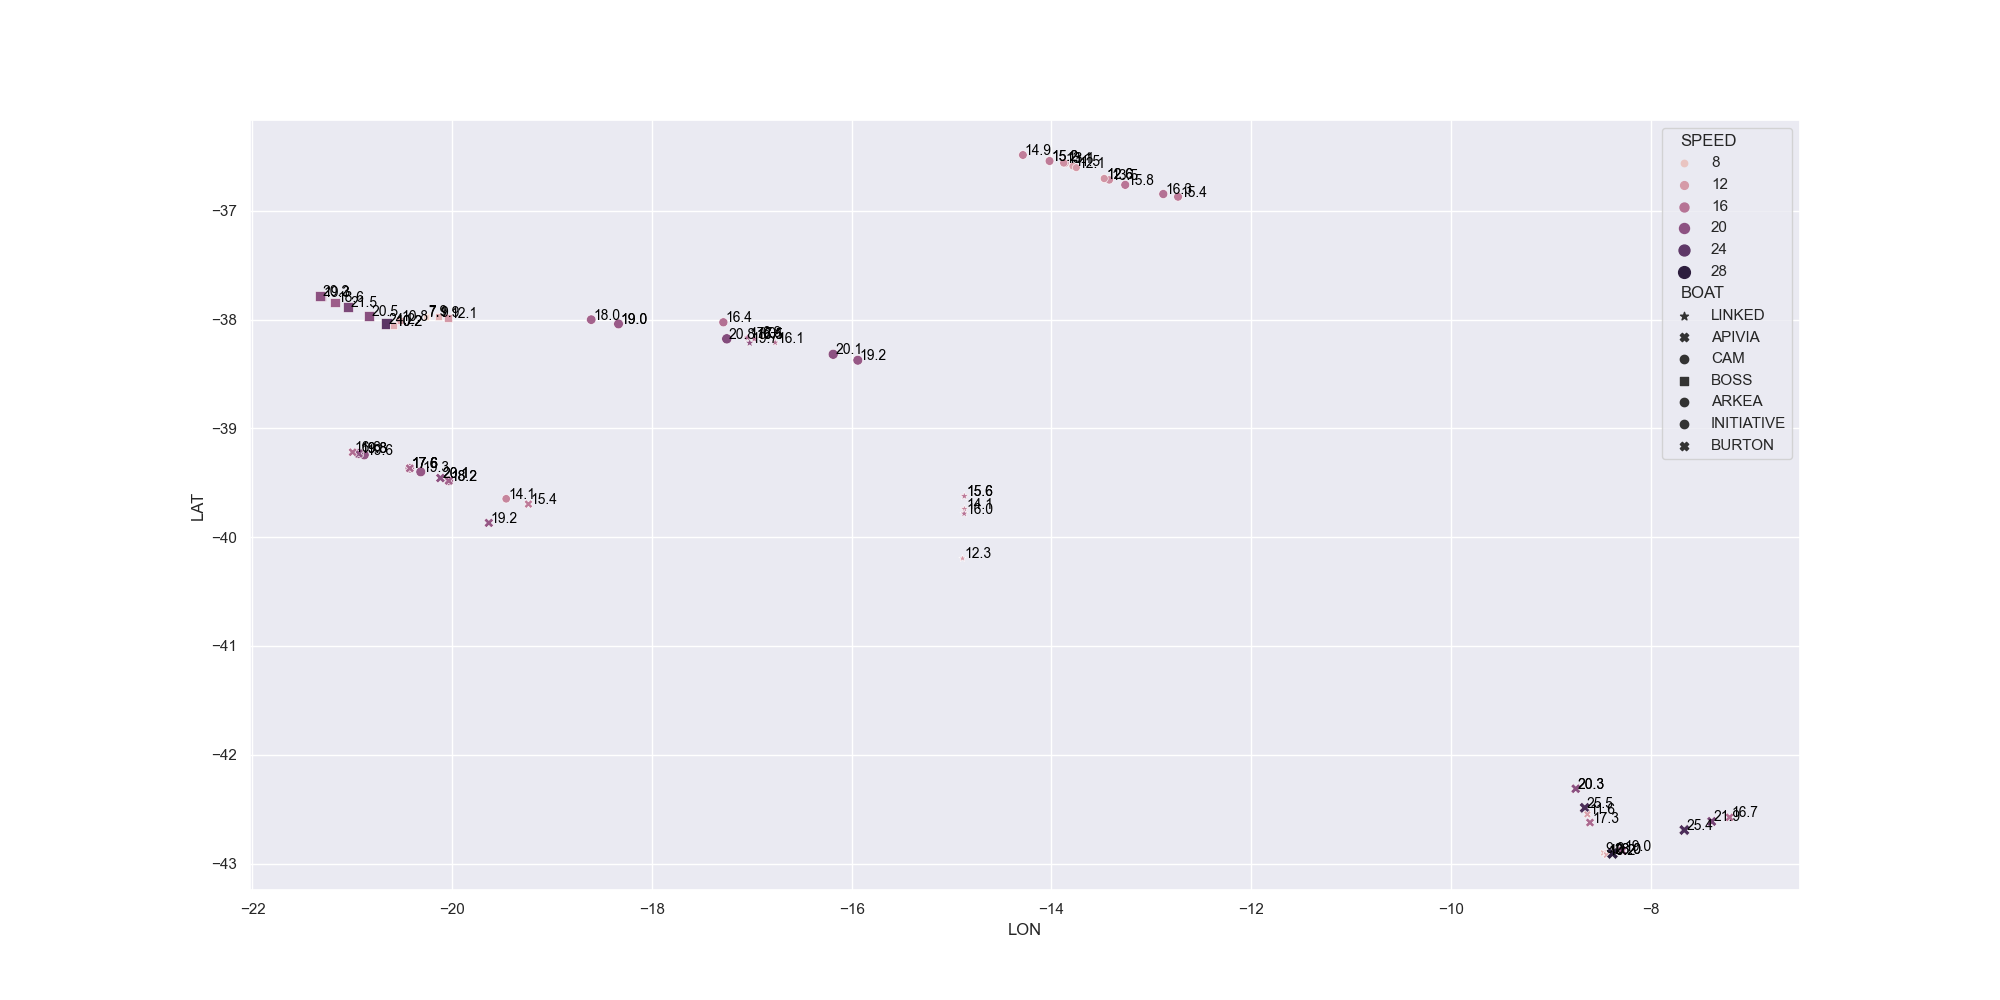
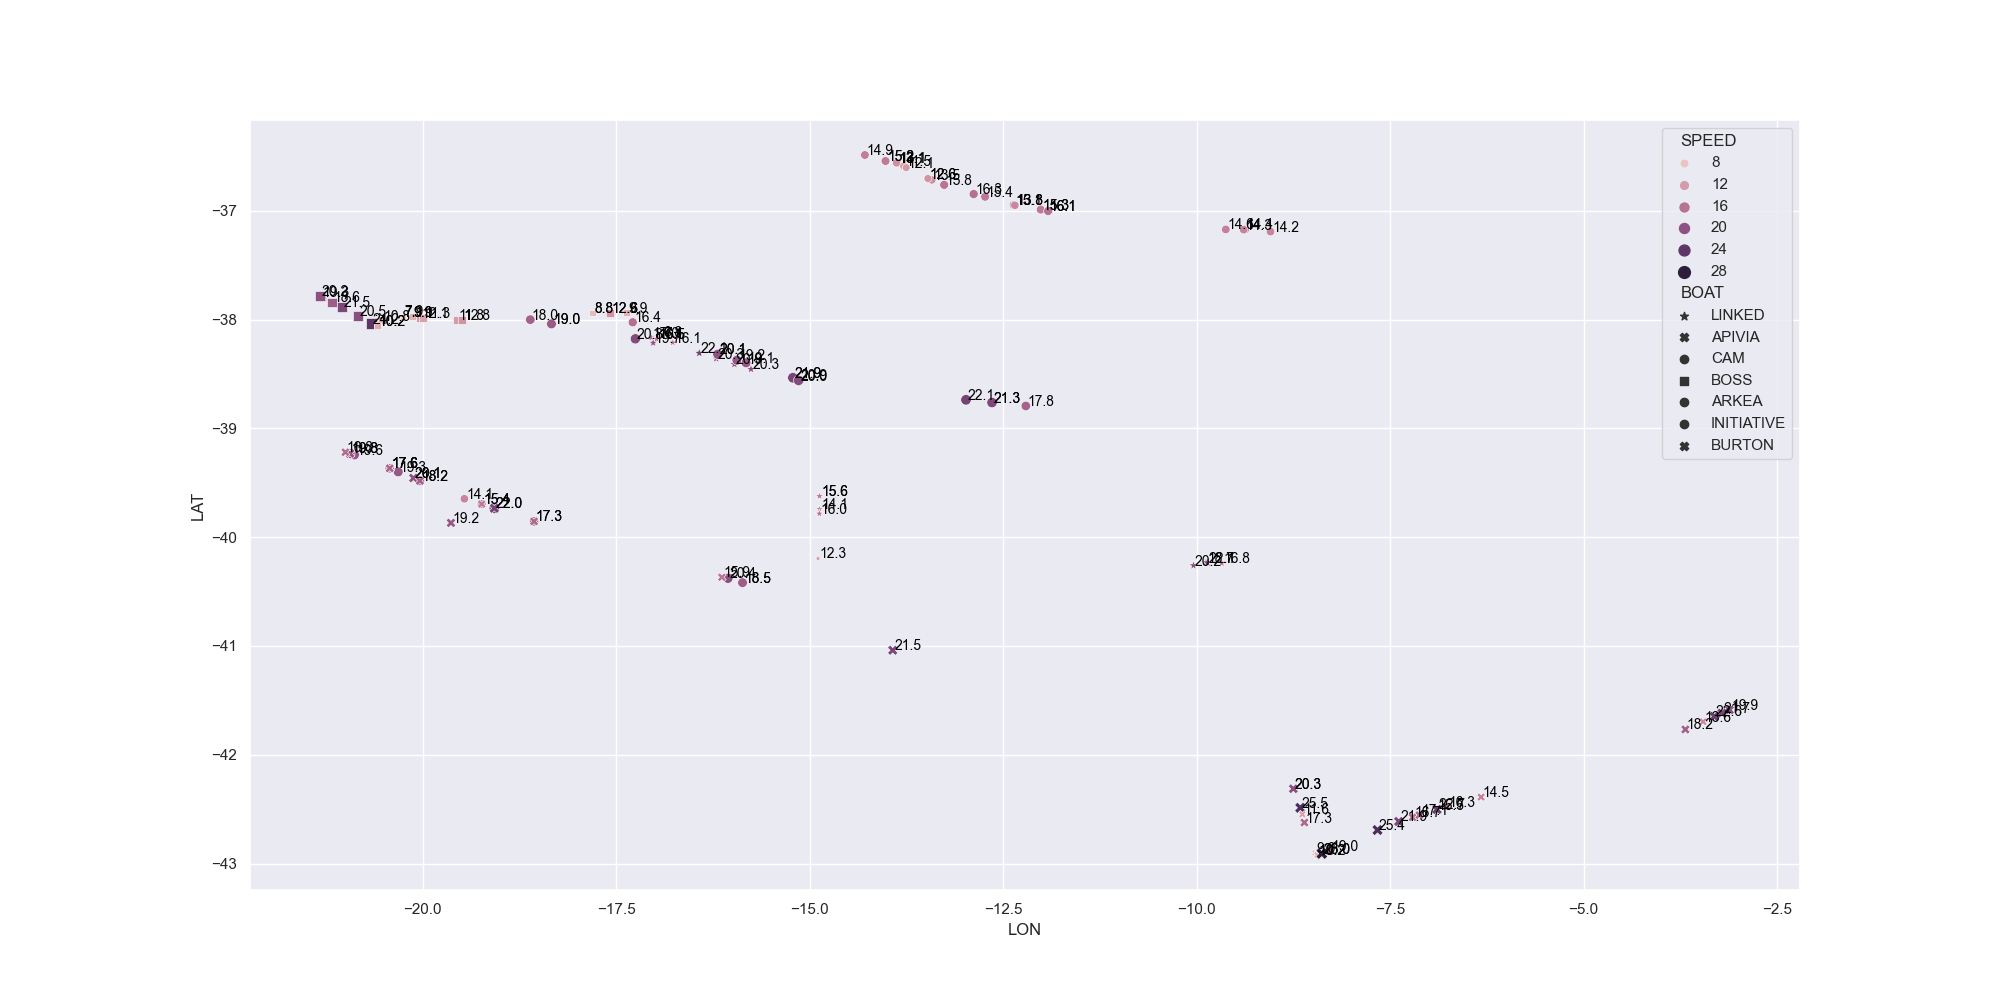
small updates

diff --git a/config.py b/config.py
@@ -1,8 +1,8 @@
-CONFIG = {'LINKED': 'https://www.marinetraffic.com/en/ais/home/centerx:-14.9/centery:-39.6/zoom:11',
-          'BOSS': 'https://www.marinetraffic.com/en/ais/home/centerx:-20.928/centery:-37.930/zoom:13',
-          'APIVIA': 'https://www.marinetraffic.com/en/ais/home/centerx:-8.4/centery:-42.1/zoom:9',
-          'CAM': 'https://www.marinetraffic.com/en/ais/home/centerx:-14.1/centery:-36.6/zoom:11',
-           'ARKEA': 'https://www.marinetraffic.com/en/ais/home/centerx:-18.304/centery:-38.045/zoom:14',
-           'INITIATIVE': 'https://www.marinetraffic.com/en/ais/home/centerx:-20.849/centery:-39.278/zoom:12',
-           'BURTON': 'https://www.marinetraffic.com/en/ais/home/centerx:-19.6/centery:-40.0/zoom:11'
+CONFIG = {'LINKED': 'https://www.marinetraffic.com/en/ais/home/centerx:-10.3/centery:-40.5/zoom:10',
+          'BOSS': 'https://www.marinetraffic.com/en/ais/home/centerx:-17.578/centery:-37.944/zoom:17',
+          'APIVIA': 'https://www.marinetraffic.com/en/ais/home/centerx:-3.3/centery:-41.7/zoom:11',
+          'CAM': 'https://www.marinetraffic.com/en/ais/home/centerx:-9.415/centery:-37.180/zoom:14',
+           'ARKEA': 'https://www.marinetraffic.com/en/ais/home/centerx:-12.641/centery:-38.763/zoom:18',
+           'INITIATIVE': 'https://www.marinetraffic.com/en/ais/home/centerx:-15.860/centery:-40.419/zoom:17',
+           'BURTON': 'https://www.marinetraffic.com/en/ais/home/centerx:-13.829/centery:-41.055/zoom:12'
           }

diff --git a/main.py b/main.py
@@ -31,13 +31,13 @@ def mainloop():
     try:
 
         driver.maximize_window()
-        # driver.execute_cdp_cmd("Page.addScriptToEvaluateOnNewDocument", {
-        # "source": """
-        # Object.defineProperty(navigator, 'webdriver', {
-        # get: () => undefined
-        # })
-        # """
-        # })
+        driver.execute_cdp_cmd("Page.addScriptToEvaluateOnNewDocument", {
+        "source": """
+        Object.defineProperty(navigator, 'webdriver', {
+        get: () => undefined
+        })
+        """
+        })
 
         print(f'starting run {datetime.datetime.now()}')
         if not os.path.isfile('data.json'):
@@ -115,7 +115,8 @@ def mainloop():
         print('----------------------')
         print(f'starting run {datetime.datetime.now()}')
         for item in datafile:
-            handle_data(item, datafile[item][-1])
+            if datafile[item]:
+                handle_data(item, datafile[item][-1])
         print('----------------------')
         plot(datafile)
         driver.quit()

diff --git a/utils.py b/utils.py
@@ -31,8 +31,8 @@ def unpack_boats(boats_response):
 def handle_data(boatname, boatdict, datafile=None):
     lat_decimal = len(boatdict.get('LAT').split('.')[1])
     lon_decimal = len(boatdict.get('LON').split('.')[1])
-    LAT = str(round(float(boatdict.get('LAT')), 4)).ljust(13 - lat_decimal, '0').rjust(9, ' ')
-    LON = str(round(float(boatdict.get('LON')), 4)).ljust(13 - lon_decimal, '0').rjust(9, ' ')
+    LAT = str(round(float(boatdict.get('LAT')), 4)).ljust(8, '0').rjust(9, ' ')
+    LON = str(round(float(boatdict.get('LON')), 4)).ljust(8, '0').rjust(9, ' ')
     SPEED = str(int(boatdict.get('SPEED')) / 10).rjust(4, ' ')
     HEADING = str(boatdict.get('HEADING')).rjust(3, ' ')
     TIME = datetime.datetime.fromtimestamp(boatdict.get('ELAPSED'))

diff --git a/plot.py b/plot.py
@@ -3,8 +3,7 @@ import matplotlib.pyplot as plt
 import pandas as pd
 import seaborn as sns
 
-with open('data.json') as json_file:
-    datafile = json.load(json_file)
+
 
 
 def plot(data_file):
@@ -30,4 +29,6 @@ def plot(data_file):
 
 
 if __name__ == "__main__":
+    with open('data.json') as json_file:
+        datafile = json.load(json_file)
     plot(datafile)
